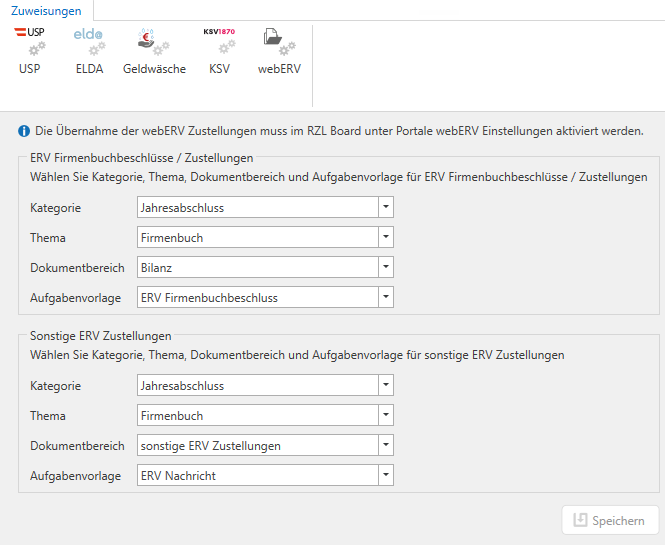
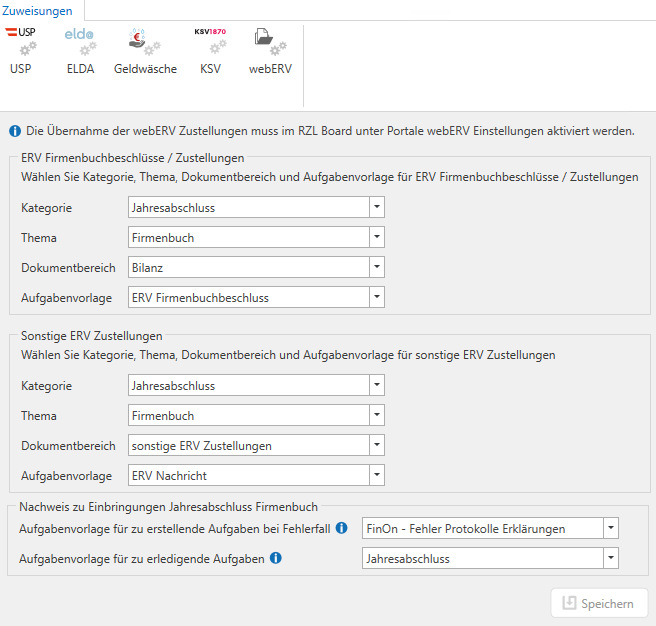
Web erv aufgaben (#168)
* Aufgabenvorlagen_neuer Screenshot+Erklärung

* FA Optionen mit Vertretungsliste aktualisiert

diff --git a/docs/KIS/Kurzanleitungen/webERV Anbindung.md b/docs/KIS/Kurzanleitungen/webERV Anbindung.md
@@ -3,7 +3,7 @@ Ab 01.01.2026 ist FinanzOnline nicht mehr als Kommunikationsweg für die Einreic
 Unterlagen, die in einer früheren Strukturversion erstellt wurden, müssen bis zum 31.12.2025 über Finanzonline übermittelt werden.
 
 Im RZL Bilanzierungsprogramm können Sie die Einreichungen mithilfe des webERV-Service von MANZ weiterhin sicher, effizient und fristgerecht durchführen.
-Weitere Informationen bezüglich dieser Änderung im Zusammenhang mit dem RZL Bilanzprogramm inklusive der technischen Voraussetzungen und notwendige Einstellungen zur Verwendung der MANZ-Schnittstelle für die Übermittlung finden Sie in der [Kurzanleitung **Jahresabschlüsse Firmenbuch ERV-Jab 4.0**](https://rzlsoftware.at/fileadmin/user_upload/PDF_Kurzanleitungen/BIL/BIL_Firmenbuchabgabe_4-0.pdf)
+Weitere Informationen bezüglich dieser Änderung im Zusammenhang mit dem RZL Bilanzprogramm inklusive der technischen Voraussetzungen und notwendige Einstellungen zur Verwendung der MANZ-Schnittstelle für die Übermittlung finden Sie in der [Kurzanleitung **Jahresabschlüsse Firmenbuch ERV-Jab 4.0**](https://rzlsoftware.at/fileadmin/user_upload/PDF_Handbuecher/BIL.pdf)
 
 Mit der webERV-Anbindung können Nachrichten aus dem elektronischen Rechtsverkehr (ERV) in das RZL Kanzlei-Informations-System übernommen werden, das betrifft unter anderem Firmenbuchbeschlüsse und sonstige ERV Zustellungen. Über Zuweisungen können Thema, Kategorie und Dokumentenbereich definiert werden, welche eine strukturierte Ablage unterstützen. Darüber hinaus können Aufgabenvorlagen für eine automatische Aufgabenerstellung definiert und hinterlegt werden.
 
@@ -32,6 +32,11 @@ Die nachträgliche Übernahme kann erst aktiviert werden, sobald ein Fallback-Kl
 ## webERV Zuweisungen im RZL Kanzlei-Informations-System
 
 Für eine strukturierte Ablage der webERV Dokumente können Sie unter *Verwaltung → Zuweisungen → webERV* jeweils Thema, Kategorie und Dokumentbereich für ERV Firmenbuchbeschlüsse und sonstige ERV Nachrichten festlegen.
-Außerdem können Sie unter *Verwaltung → Aufgabenvorlagen* Aufgabenvorlagen anlegen, mit welchen Aufgaben für die ERV Firmenbuchbeschlüsse/sonstige ERV Zustellungen erstellt werden.
+Außerdem können Sie unter *Verwaltung → Aufgabenvorlagen* Aufgabenvorlagen anlegen, mit welchen Aufgaben für die ERV Firmenbuchbeschlüsse/sonstige ERV Zustellungen erstellt werden. 
+
+Es besteht die Möglichkeit, analog zu den Funktionen in FinanzOnline, mit Aufgabenvorlagen zu arbeiten.
+Im Falle einer fehlerhaften Übermittlung kann durch die Hinterlegung einer Vorlage unter *Aufgabenvorlage für zu erstellende Aufgabe* automatisch eine entsprechende Aufgabe generiert werden.
+Wird der Jahresabschluss hingegen erfolgreich übermittelt, erfolgt die automatische Erledigung durch den Zuständigen webERV. Voraussetzung dafür ist die Hinterlegung einer Vorlage unter *Aufgabenvorlage für zu erledigende Aufgabe*.
 
 ![Zuweisungen webERV](<img/Zuweisungen.png>)
+

diff --git a/docs/Board/Stammdatenverwaltung (STAMM)/Personen und Firmen.md b/docs/Board/Stammdatenverwaltung (STAMM)/Personen und Firmen.md
@@ -204,6 +204,8 @@ Kontextmenü durchgeführt werden. Mit einem Symbol neben der UID Nummer
 wird der Status der Überprüfung angezeigt. Im Tooltip auf dieses Symbol
 zeigt es das Datum der Überprüfung an.
 
+Die Optionen *Akteneinsicht, Steuer, Geld, Zustellung*, sowie die Option *Abfrage durchführen* werden automatisch mit dem Abruf der Vertretungsliste gesetzt.
+
 ### **Bankverbindungen**
 
 Hier können Sie die Bankverbindungen der Person eintragen. Das mit der
